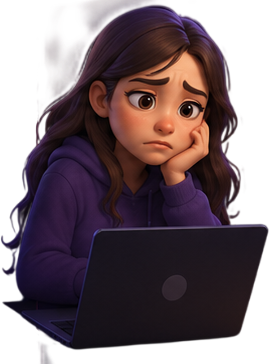
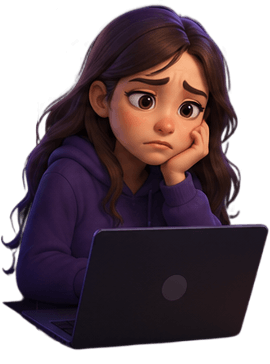
333

diff --git a/prelaunch/prelaunch.css b/prelaunch/prelaunch.css
@@ -129,7 +129,9 @@ svg { display: block; }
 .nav-links a { font-family: var(--font-h); font-size: 0.95rem; font-weight: 600; color: var(--text-muted); transition: color var(--t); }
 .nav-links a:hover { color: var(--cyan); }
 .nav-cta { padding: 10px 22px; font-size: 0.86rem; flex-shrink: 0; }
-@media (max-width: 880px) { .nav-links { display: none; } }
+.nav-right { display: flex; align-items: center; gap: 10px; flex-shrink: 0; }
+.nav-toggle { display: none; }
+.nav-mobile-panel { display: none; }
 
 /* ══════════════════════════════════════════════════════════════
    HERO — rich banner, two-column, form top-right
@@ -399,23 +401,47 @@ svg { display: block; }
 .section-light .pain-card p { color: #4a4458; }
 
 /* ── COMPARE TABLE ─────────────────────────────────────────── */
-.compare-grid { display: grid; grid-template-columns: repeat(2, 1fr); gap: 26px; margin-top: 58px; max-width: 940px; margin-left: auto; margin-right: auto; }
+.compare-grid { position: relative; display: grid; grid-template-columns: repeat(2, 1fr); gap: 26px; margin-top: 96px; max-width: 980px; margin-left: auto; margin-right: auto; }
 .compare-card {
-  position: relative; padding: 40px 34px 34px; border-radius: var(--r-lg);
+  position: relative; overflow: visible; padding: 40px 34px 34px; border-radius: var(--r-lg);
   background: var(--surface); border: 1px solid var(--border);
 }
-.compare-card.old { border-color: rgba(255, 122, 138, 0.22); }
+.compare-card.old { border-color: rgba(255, 122, 138, 0.25); }
 .compare-card.new {
-  border-color: rgba(34, 201, 224, 0.35);
-  background: linear-gradient(165deg, rgba(34, 201, 224, 0.07), rgba(122, 92, 255, 0.05)), var(--surface);
-  box-shadow: 0 20px 50px rgba(34, 201, 224, 0.12);
+  border-color: rgba(79, 224, 166, 0.35);
+  background: linear-gradient(165deg, rgba(79, 224, 166, 0.07), rgba(122, 92, 255, 0.05)), var(--surface);
+  box-shadow: 0 20px 50px rgba(79, 224, 166, 0.1);
 }
-.cmp-emoji { position: absolute; top: -22px; right: 24px; font-size: 2.4rem; filter: drop-shadow(0 6px 12px rgba(0,0,0,0.4)); }
-.cmp-label { display: inline-block; font-family: var(--font-h); font-size: 0.82rem; font-weight: 700; letter-spacing: 0.06em; margin-bottom: 8px; }
-.cmp-label.old { color: var(--rose); }
-.cmp-label.new { color: var(--green); }
-.cmp-title { font-size: 1.4rem; margin-bottom: 22px; }
-.cmp-list { display: flex; flex-direction: column; gap: 0; }
+.cmp-character {
+  position: absolute; top: -78px; height: auto; z-index: 1; pointer-events: none;
+  filter: drop-shadow(0 10px 18px rgba(0, 0, 0, 0.3));
+}
+.compare-card.old .cmp-character { left: -246px; }
+.compare-card.new .cmp-character { right: -176px; width: 300px; }
+.cmp-sparkle { position: absolute; z-index: 2; color: var(--violet); font-style: normal; pointer-events: none; }
+.cmp-sparkle.s1 { top: -85px; right: 30px; font-size: 0.9rem; }
+.cmp-sparkle.s2 { top: -45px; right: -6px; font-size: 0.7rem; }
+.cmp-sparkle.s3 { top: -68px; right: 70px; font-size: 0.75rem; }
+
+.cmp-vs {
+  position: absolute; top: 50%; left: 50%; transform: translate(-50%, -50%); z-index: 3;
+  width: 64px; height: 64px; border-radius: 50%;
+  display: flex; align-items: center; justify-content: center;
+  font-family: var(--font-h); font-weight: 800; font-size: 0.9rem; letter-spacing: 0.02em;
+  background: var(--bg); color: var(--text);
+  border: 1.5px solid rgba(122, 92, 255, 0.4);
+  box-shadow: 0 0 0 6px var(--bg), 0 10px 24px rgba(122, 92, 255, 0.3), 0 0 30px rgba(122, 92, 255, 0.25);
+}
+
+.cmp-label {
+  position: relative; z-index: 1;
+  display: inline-flex; font-family: var(--font-h); font-size: 0.72rem; font-weight: 700; letter-spacing: 0.06em;
+  text-transform: uppercase; padding: 6px 14px; border-radius: var(--r-pill); margin-bottom: 14px;
+}
+.cmp-label.old { color: var(--rose); background: rgba(255, 122, 138, 0.1); border: 1px solid rgba(255, 122, 138, 0.3); }
+.cmp-label.new { color: var(--green); background: rgba(79, 224, 166, 0.1); border: 1px solid rgba(79, 224, 166, 0.3); }
+.cmp-title { position: relative; z-index: 1; font-size: 1.4rem; margin-bottom: 22px; }
+.cmp-list { position: relative; z-index: 1; display: flex; flex-direction: column; gap: 0; }
 .cmp-list li {
   display: flex; align-items: flex-start; gap: 13px;
   padding: 15px 0; font-size: 0.95rem; color: var(--text-muted);
@@ -428,6 +454,24 @@ svg { display: block; }
 }
 .cmp-x { background: rgba(255, 122, 138, 0.14); color: var(--rose); }
 .cmp-check { background: rgba(79, 224, 166, 0.16); color: var(--green); }
+
+.compare-banner {
+  display: flex; align-items: center; gap: 18px;
+  margin: 36px auto 0; max-width: 780px;
+  padding: 20px 28px; border-radius: var(--r-md);
+  background: var(--surface); border: 1px solid var(--border-2);
+}
+.compare-banner-icon {
+  width: 44px; height: 44px; border-radius: 14px; flex-shrink: 0;
+  display: flex; align-items: center; justify-content: center;
+  background: rgba(122, 92, 255, 0.15); color: var(--violet);
+}
+.compare-banner-icon svg { width: 22px; height: 22px; }
+.compare-banner p { font-size: 1rem; color: var(--text-muted); line-height: 1.65; }
+.compare-banner p strong {
+  background: var(--brand); -webkit-background-clip: text; background-clip: text;
+  -webkit-text-fill-color: transparent; color: transparent;
+}
 
 /* ── STATS STRIP (light section) ──────────────────────────── */
 .stats-strip { padding: 100px 0; }
@@ -704,17 +748,82 @@ svg { display: block; }
 /* ══════════════════════════════════════════════════════════════
    RESPONSIVE
    ══════════════════════════════════════════════════════════════ */
+@media (max-width: 1499px) {
+.compare-grid {
+    max-width: 890px;
+}
+.compare-card.new .cmp-character {
+    right: -216px;
+}
+}
+@media (max-width: 1399px) {
+    .compare-card.new .cmp-character {
+        right: -145px;
+        width: 260px;
+    }
+    .compare-card.old .cmp-character {
+    left: -186px;
+    width: 210px;
+}
+.reg-sticker {
+    right: -12px;
+}
+}
+@media (max-width: 1299px) {
+      .compare-card.new .cmp-character {
+        right: -25px;
+        width: 170px;
+    }
+        .compare-card.old .cmp-character {
+        left: -34px;
+        width: 140px;
+        top: -150px;
+    }
+}
+
 @media (max-width: 992px) {
-  .hero-inner { gap: 36px; }
-  .hero-grid { grid-template-columns: 1fr; gap: 40px; }
-  .hero-copy { text-align: center; padding-top: 0; }
-  .hero-copy .hero-sub { margin-left: auto; margin-right: auto; }
-  .hero-copy .date-row { justify-content: center; }
-  .hero-copy .countdown-wrap { margin-left: auto; margin-right: auto; }
+        .compare-card.new .cmp-character, .compare-card.old .cmp-character {
+        display: none;
+    }
+    .nav-links { display: none; }
+  .nav-toggle {
+    display: flex; flex-direction: column; justify-content: center; align-items: center;
+    gap: 5px; width: 40px; height: 40px; border-radius: 50%;
+    background: rgba(255, 255, 255, 0.06); border: 1px solid var(--border-2); flex-shrink: 0;
+  }
+  .nav-toggle span { width: 16px; height: 2px; background: var(--text); border-radius: 2px; transition: transform var(--t), opacity var(--t); }
+  #navbar.menu-open .nav-toggle span:nth-child(1) { transform: translateY(7px) rotate(45deg); }
+  #navbar.menu-open .nav-toggle span:nth-child(2) { opacity: 0; }
+  #navbar.menu-open .nav-toggle span:nth-child(3) { transform: translateY(-7px) rotate(-45deg); }
+  .nav-mobile-panel {
+    display: flex; flex-direction: column; gap: 4px;
+    max-width: 1320px; margin: 8px auto 0; padding: 14px 18px;
+    background: rgba(11, 7, 20, 0.95); backdrop-filter: blur(14px) saturate(160%); -webkit-backdrop-filter: blur(14px) saturate(160%);
+    border: 1px solid var(--border-2); border-radius: var(--r-md);
+    opacity: 0; transform: translateY(-8px); pointer-events: none;
+    transition: opacity var(--t), transform var(--t);
+  }
+  #navbar.menu-open .nav-mobile-panel { opacity: 1; transform: none; pointer-events: auto; }
+  .nav-mobile-panel a {
+    font-family: var(--font-h); font-weight: 600; font-size: 0.95rem; color: var(--text-muted);
+    padding: 12px 14px; border-radius: var(--r-sm); transition: color var(--t), background var(--t);
+  }
+  .nav-mobile-panel a:hover, .nav-mobile-panel a:active { color: var(--cyan); background: rgba(255, 255, 255, 0.05); }
+  .hero-inner { gap: 0; }
+  .hero-grid { display: contents; }
+  .hero-copy { display: contents; text-align: center; padding-top: 0; }
+  .hero-copy .eyebrow-pill { order: 1; align-self: center; }
+  .hero-copy h1 { order: 2; }
+  .hero-form-col { order: 3; margin-top: 36px; }
+  .hero-copy .hero-sub { order: 4; margin-left: auto; margin-right: auto; }
+  .hero-copy .date-row { order: 5; justify-content: center; }
+  .hero-copy .countdown-wrap { order: 6; align-self: center; margin-left: auto; margin-right: auto; }
+  .wd-grid { order: 7; margin-top: 36px; }
   .reg-card { max-width: 480px; margin: 0 auto; }
   .pain-grid { grid-template-columns: repeat(2, 1fr); }
   .stats-row { grid-template-columns: repeat(2, 1fr); gap: 30px; }
   .feature-card { flex: 1 1 260px; }
+  #hero h1 span { display: block; }
 }
 
 @media (max-width: 768px) {
@@ -723,15 +832,26 @@ svg { display: block; }
   .live-grid { grid-template-columns: 1fr; }
   .live-banner { flex-direction: column; text-align: center; }
   .foryou-grid { grid-template-columns: 1fr; }
-  .compare-grid { grid-template-columns: 1fr; gap: 40px; }
+  .compare-grid { grid-template-columns: 1fr; gap: 20px; }
+  .cmp-vs { position: static; transform: none; justify-self: center; }
+  .compare-banner { flex-direction: column; text-align: center; }
   .agenda-item { gap: 18px; padding: 24px; }
   .fc-warning { flex-direction: column; text-align: center; }
+.reg-sticker {
+    top: -19px;
+    right: -22px;
+    width: 80px;
+}
+.compare-grid {
+    margin-top: 46px;
+
+}
 }
 
 @media (max-width: 620px) {
   .container { padding: 0 20px; }
-  .nav-inner { padding: 0 20px; height: 64px; }
-  #hero { padding: 44px 0 60px; }
+  .nav-inner { padding: 0 10px; height: 64px; border-radius: 10px; }
+  #hero { padding: 115px 0 50px; }
   .cd-unit { width: 64px; height: 64px; }
   .cd-num { font-size: 1.3rem; }
   .wd-card { flex: 1 1 100%; }
@@ -742,6 +862,12 @@ svg { display: block; }
   .form-row { flex-direction: column; gap: 0; }
   .fc-schedule { flex-direction: column; gap: 26px; }
   .fc-sched-divider { width: 60px; height: 1px; margin: 0 auto; }
+    #hero h1 span { display: inline; }
+    #navbar {
+    top: 10px;
+    padding: 0px 8px 0;
+}
+
 }
 
 @media (max-width: 480px) {
@@ -750,10 +876,24 @@ svg { display: block; }
   .cd-unit { width: 56px; height: 56px; }
   .cd-num { font-size: 1.15rem; }
   .agenda-item { flex-direction: column; gap: 8px; }
+  .fc-cta { padding: 17px 24px; font-size: 0.92rem; }
+  .eyebrow-pill {
+    margin-bottom: 12px;
+}
+    .hero-form-col {
+        margin-top: 15px;
+    }
 }
 
 @media (max-width: 390px) {
   .countdown { gap: 6px; }
   .cd-unit { width: 50px; height: 50px; }
   .cd-lbl { font-size: 0.58rem; }
+}
+
+@media (max-width: 420px) {
+  .nav-inner { gap: 8px; padding: 0 14px; }
+  .nav-logo img { height: 24px; }
+  .nav-cta { padding: 8px 13px; font-size: 0.72rem; gap: 6px; }
+  .nav-cta .arrow { width: 11px; height: 11px; font-size: 11px; }
 }

diff --git a/prelaunch/index.html b/prelaunch/index.html
@@ -28,7 +28,18 @@
         <a href="#why-live">Why Attend Live</a>
         <a href="#for-you">Is This For You</a>
       </div>
-      <a href="#hero" class="btn-primary nav-cta">Reserve Your Seat <i class="arrow"></i></a>
+      <div class="nav-right">
+        <a href="#hero" class="btn-primary nav-cta">Reserve Your Seat <i class="arrow"></i></a>
+        <button class="nav-toggle" type="button" aria-label="Toggle menu" aria-expanded="false">
+          <span></span><span></span><span></span>
+        </button>
+      </div>
+    </div>
+    <div class="nav-mobile-panel">
+      <a href="#learn">What You'll Learn</a>
+      <a href="#inside">What's Inside</a>
+      <a href="#why-live">Why Attend Live</a>
+      <a href="#for-you">Is This For You</a>
     </div>
   </nav>
 
@@ -299,7 +310,6 @@
     <div class="container">
       <div class="compare-grid">
         <div class="compare-card old">
-          <span class="cmp-emoji">😰</span>
           <span class="cmp-label old">The Old Way</span>
           <h3 class="cmp-title">The Manual Grind</h3>
           <ul class="cmp-list">
@@ -310,9 +320,10 @@
             <li><span class="cmp-x">✕</span> Pay a VA $1,800/mo for admin work</li>
             <li><span class="cmp-x">✕</span> Watch competitors get cited in ChatGPT</li>
           </ul>
+          <img class="cmp-character" src="assets/sad.png" alt="" aria-hidden="true" loading="lazy">
         </div>
+        <span class="cmp-vs" aria-hidden="true">VS</span>
         <div class="compare-card new">
-          <span class="cmp-emoji">🥳</span>
           <span class="cmp-label new">The WPilot AI Way</span>
           <h3 class="cmp-title">The Automated Life</h3>
           <ul class="cmp-list">
@@ -323,7 +334,22 @@
             <li><span class="cmp-check">✓</span> Claude Assistant handles admin — free</li>
             <li><span class="cmp-check">✓</span> You rank inside ChatGPT, Claude &amp; Perplexity</li>
           </ul>
+          <span class="cmp-sparkle s1" aria-hidden="true">✦</span>
+          <span class="cmp-sparkle s2" aria-hidden="true">✦</span>
+          <span class="cmp-sparkle s3" aria-hidden="true">✦</span>
+          <img class="cmp-character" src="assets/happy.png" alt="" aria-hidden="true" loading="lazy">
         </div>
+      </div>
+      <div class="compare-banner">
+        <span class="compare-banner-icon" aria-hidden="true">
+          <svg viewBox="0 0 24 24" fill="none" stroke="currentColor" stroke-width="2" stroke-linecap="round" stroke-linejoin="round">
+            <path d="M4.5 16.5c-1.5 1.26-2 5-2 5s3.74-.5 5-2c.71-.84.7-2.13-.09-2.91a2.18 2.18 0 0 0-2.91-.09z"></path>
+            <path d="m12 15-3-3a22 22 0 0 1 2-3.95A12.88 12.88 0 0 1 22 2c0 2.72-.78 7.5-6 11a22.35 22.35 0 0 1-4 2z"></path>
+            <path d="M9 12H4s.55-3.03 2-4c1.62-1.08 5 0 5 0"></path>
+            <path d="M12 15v5s3.03-.55 4-2c1.08-1.62 0-5 0-5"></path>
+          </svg>
+        </span>
+        <p>From paying every month to profiting every day. <strong> That's the WPilot AI Way. </strong></p>
       </div>
     </div>
   </section>

diff --git a/prelaunch/prelaunch.js b/prelaunch/prelaunch.js
@@ -13,6 +13,30 @@
   window.addEventListener('scroll', onScroll, { passive: true });
 })();
 
+// ── NAV MOBILE MENU ──
+(function () {
+  const navbar = document.getElementById('navbar');
+  const toggle = document.querySelector('.nav-toggle');
+  const panel = document.querySelector('.nav-mobile-panel');
+  if (!navbar || !toggle || !panel) return;
+
+  function closeMenu() {
+    navbar.classList.remove('menu-open');
+    toggle.setAttribute('aria-expanded', 'false');
+  }
+
+  toggle.addEventListener('click', () => {
+    const isOpen = navbar.classList.toggle('menu-open');
+    toggle.setAttribute('aria-expanded', String(isOpen));
+  });
+
+  panel.querySelectorAll('a').forEach((a) => a.addEventListener('click', closeMenu));
+
+  window.addEventListener('resize', () => {
+    if (window.innerWidth > 992) closeMenu();
+  });
+})();
+
 // ── HERO RIPPLE GRID (mouse-following spotlight + click ripple over a faint grid) ──
 (function () {
   const grid = document.getElementById('rippleGrid');